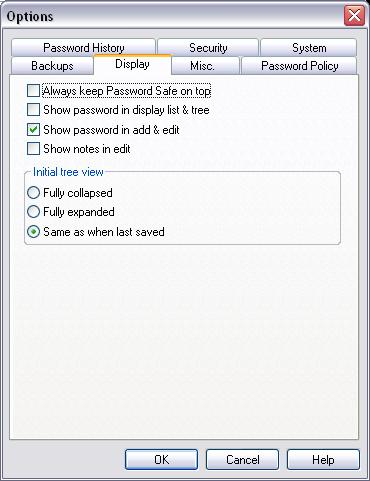
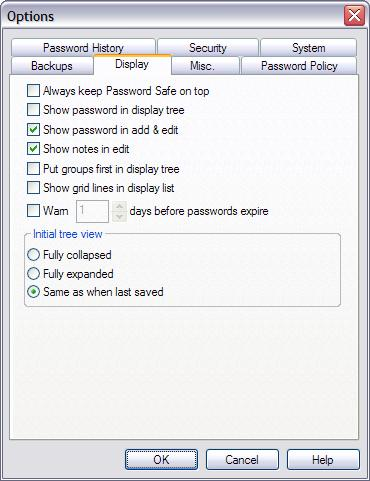
Updated display tab image and help description.
git-svn-id: svn://svn.code.sf.net/p/passwordsafe/code/trunk@1322 1f79f812-37fb-46fe-a122-30589dd2bf55

diff --git a/pwsafe/pwsafe/help/default/html/display_tab.html b/pwsafe/pwsafe/help/default/html/display_tab.html
@@ -1,67 +1,102 @@
 <!DOCTYPE HTML PUBLIC "-//W3C//DTD HTML 4.01 Transitional//EN">
 <html>
 <head>
+
+  
+
+
+
+  
   <title>Display Tab</title>
-
-
 <!-- pwsafe version: 2.11--><!-- Modified: 15/06/2005 --><!--Popup control -->
   <script language="javascript" src="html/popups.js">
   </script>
+  
   <link rel="stylesheet" type="text/css" href="style.css">
-
 </head>
 
 
 <body>
 
+
 <object id="popup" type="application/x-oleobject" classid="clsid:adb880a6-d8ff-11cf-9377-00aa003b7a11"> </object>
 <!-- Popup Source File -->
 <h2>Display Tab</h2>
+
 
 <img style="width: 370px; height: 481px;" alt="Display Tab" src="images/options/display_tab.jpg">
 <p>Functions within the <b>Display Tab</b> control
 how&nbsp;Password Safe and password items are displayed. </p>
 
+
 <div class="instr">
 <h3>Always keep Password Safe on top</h3>
+
 
 <p>If checked, maximized <b>Password Safe</b> will
 always be the top most window displayed in the montior, regardless of
 what other window may have focus.</p>
 
+
 <h3>Show password in display list &amp; tree</h3>
+
 
 <p>If checked, passwords will be displayed in a column next to
 their associated user name when viewed in <b>Flattened List Mode</b>,
 or in square brackets following the user's name in the <span style="font-weight: bold;">Nested Tree Mode</span>
 view.<br>
 
+
 <i><small>This option is <span style="font-weight: bold;">strongly</span> discouraged
 in environments where passers-by can view the monitor.</small></i></p>
 
+
 <h3>Show password&nbsp;in add &amp; edit mode</h3>
+
 
 <p>If checked, passwords that would&nbsp;be hidden in the <span style="font-weight: bold;">Add Entry and</span> <b>Edit/View
 Entry</b> dialogs will be displayed in plain text. You can
 display the passwords by clicking on the "Show" button in the dialog.</p>
 
+
 <h3>Show notes in edit</h3>
+
 
 If checked, notes will be displayed by default in edit dialog. If not,
 you will need to click on the Notes field in order to view the text
 there. <br>
 
+
+<h3>Put groups first in display tree</h3>
+By default, your entries are displayed in strict alphabetical order in
+the tree view. When this option is selected, all the groups will be
+displayed first (in alphabetical order), followed by all top-level
+entries.
+<h3>Show grid lines in display list</h3>
+
+
+If checked, a light grid line will be shown in the dispay list, making it look like a spreadsheet. 
+<h3>Warn&nbsp;<span style="font-style: italic;">N&nbsp;</span>days before password expires</h3>
+If checked, PasswordSafe will scan all entries when reading a database
+(typically when starting up), and display a list of the whose
+expiration date is <span style="font-style: italic;">N </span>days or less from the current &nbsp;date.
 <h3>Initial tree view</h3>
 
+
 This determines how your entries will be displayed in the tree view
-when you open the database. </div>
+when you open the database.<br>
+ </div>
+
 
 <!-- Added some white space at the bottom for natural scrolling -->
 <br>
 
-<br>
 
 <br>
+
+
+<br>
+
 
 <object type="application/x-oleobject" classid="clsid:1e2a7bd0-dab9-11d0-b93a-00c04fc99f9e"> <param name="Keyword" value="Display Tab"> <param name="Keyword" value="System Tray"> <param name="Keyword" value="Show Passwords"> </object>
 </body>
